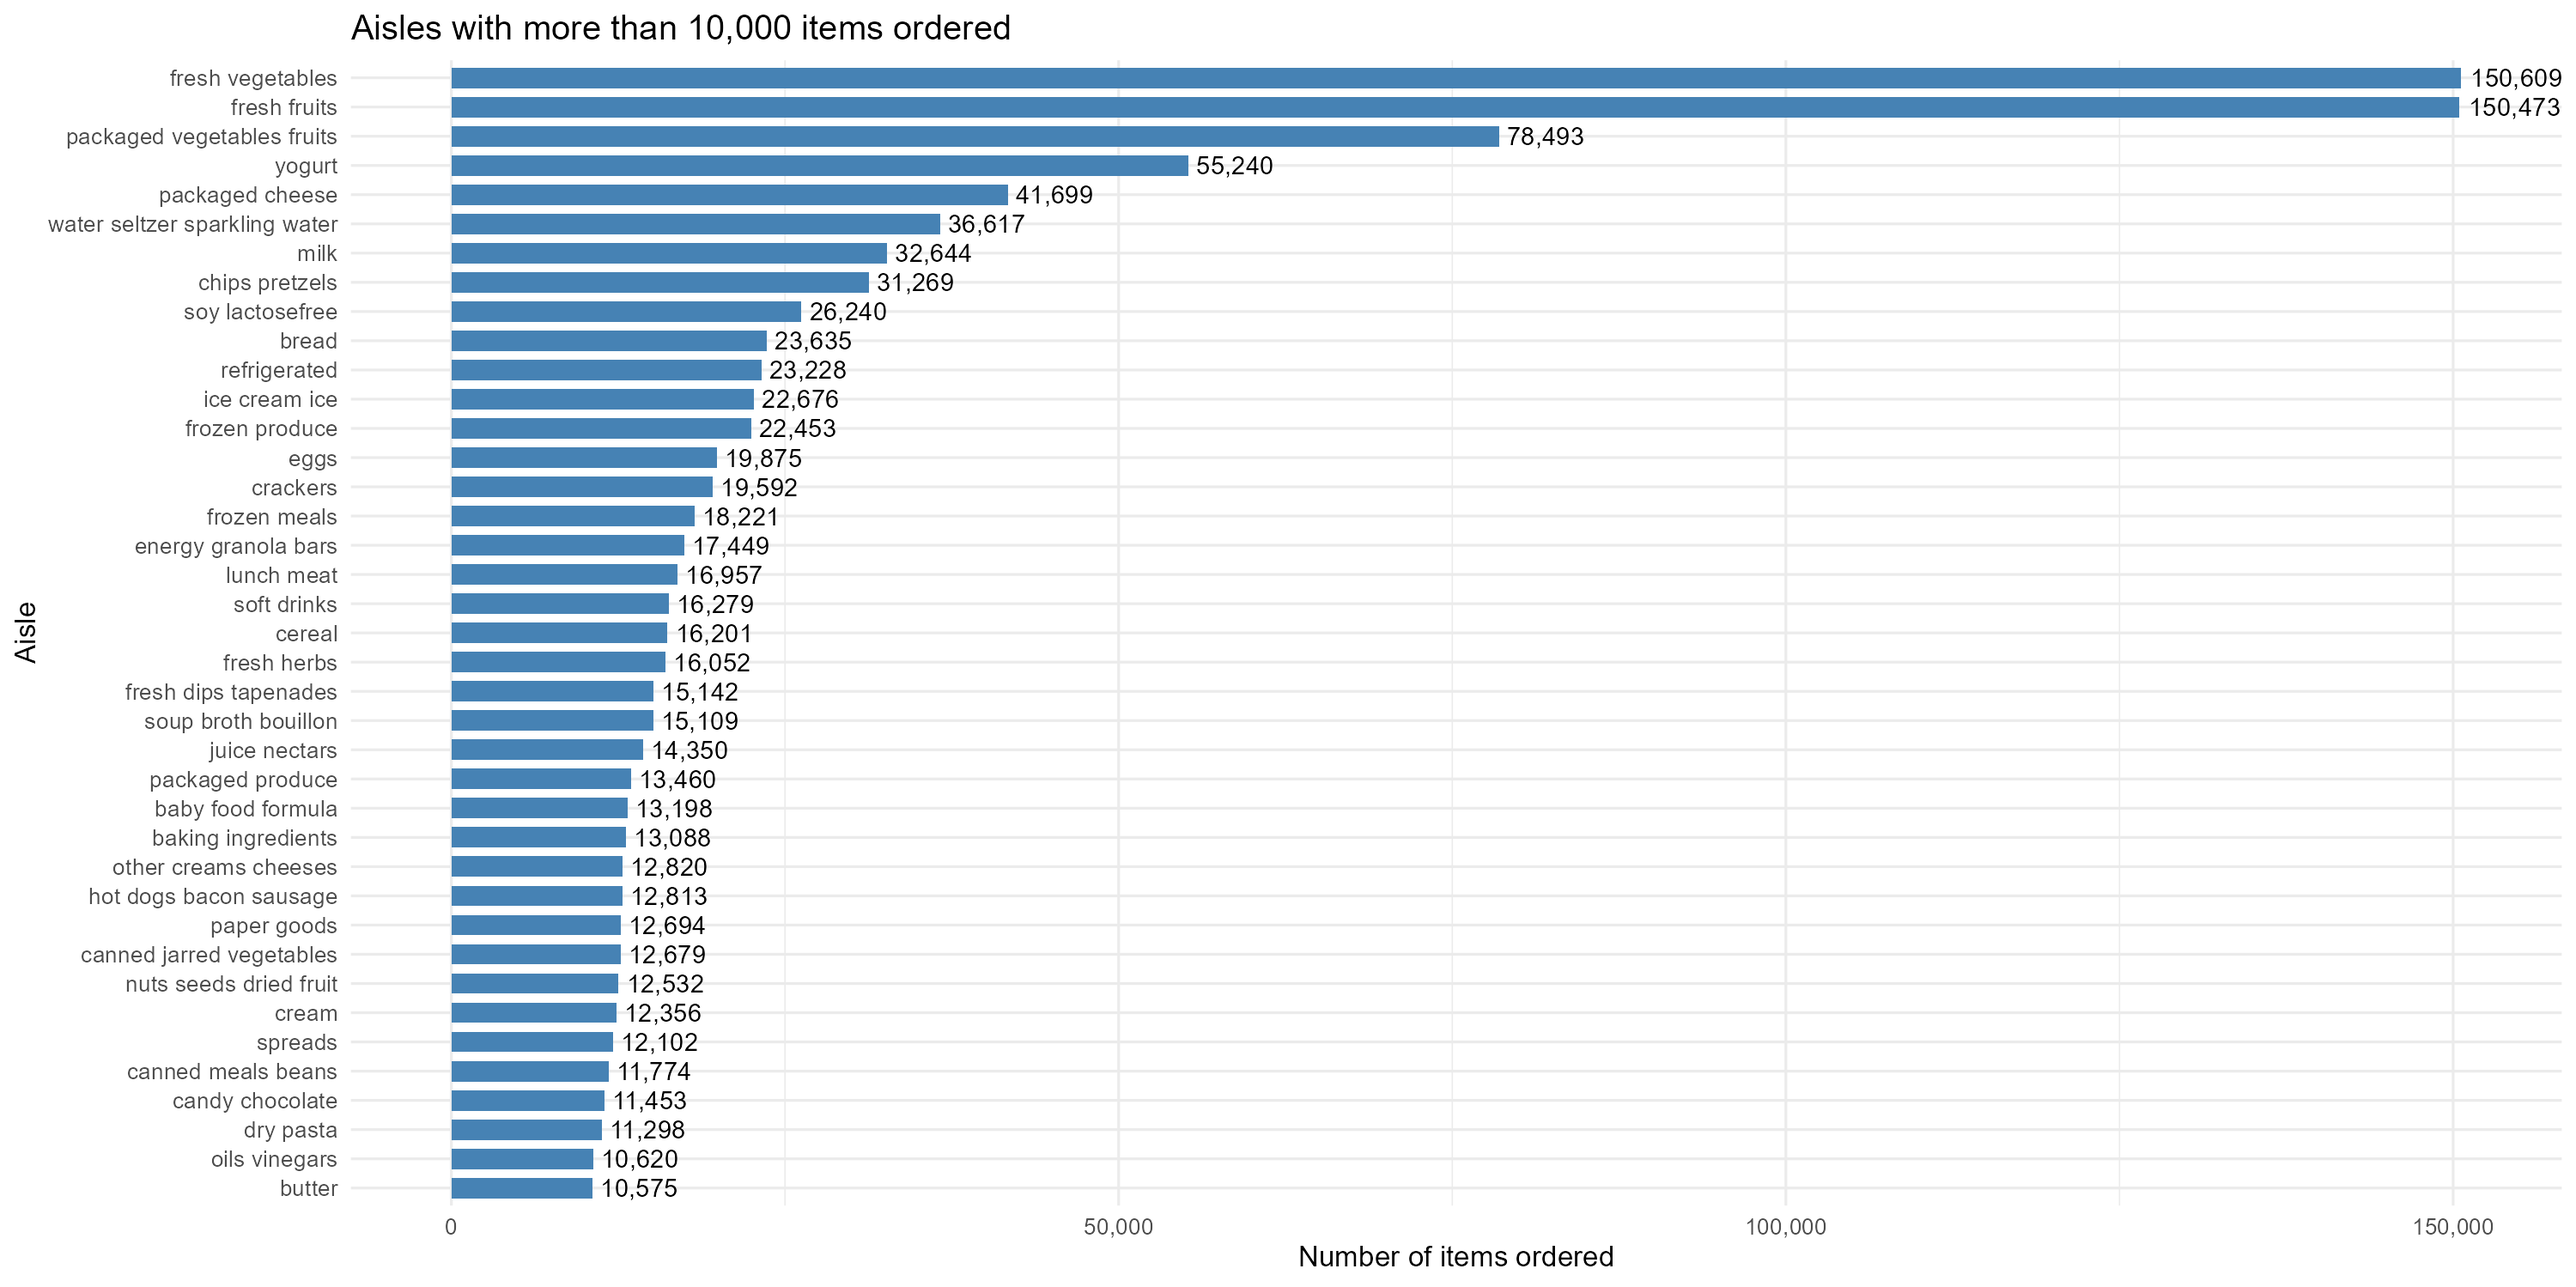
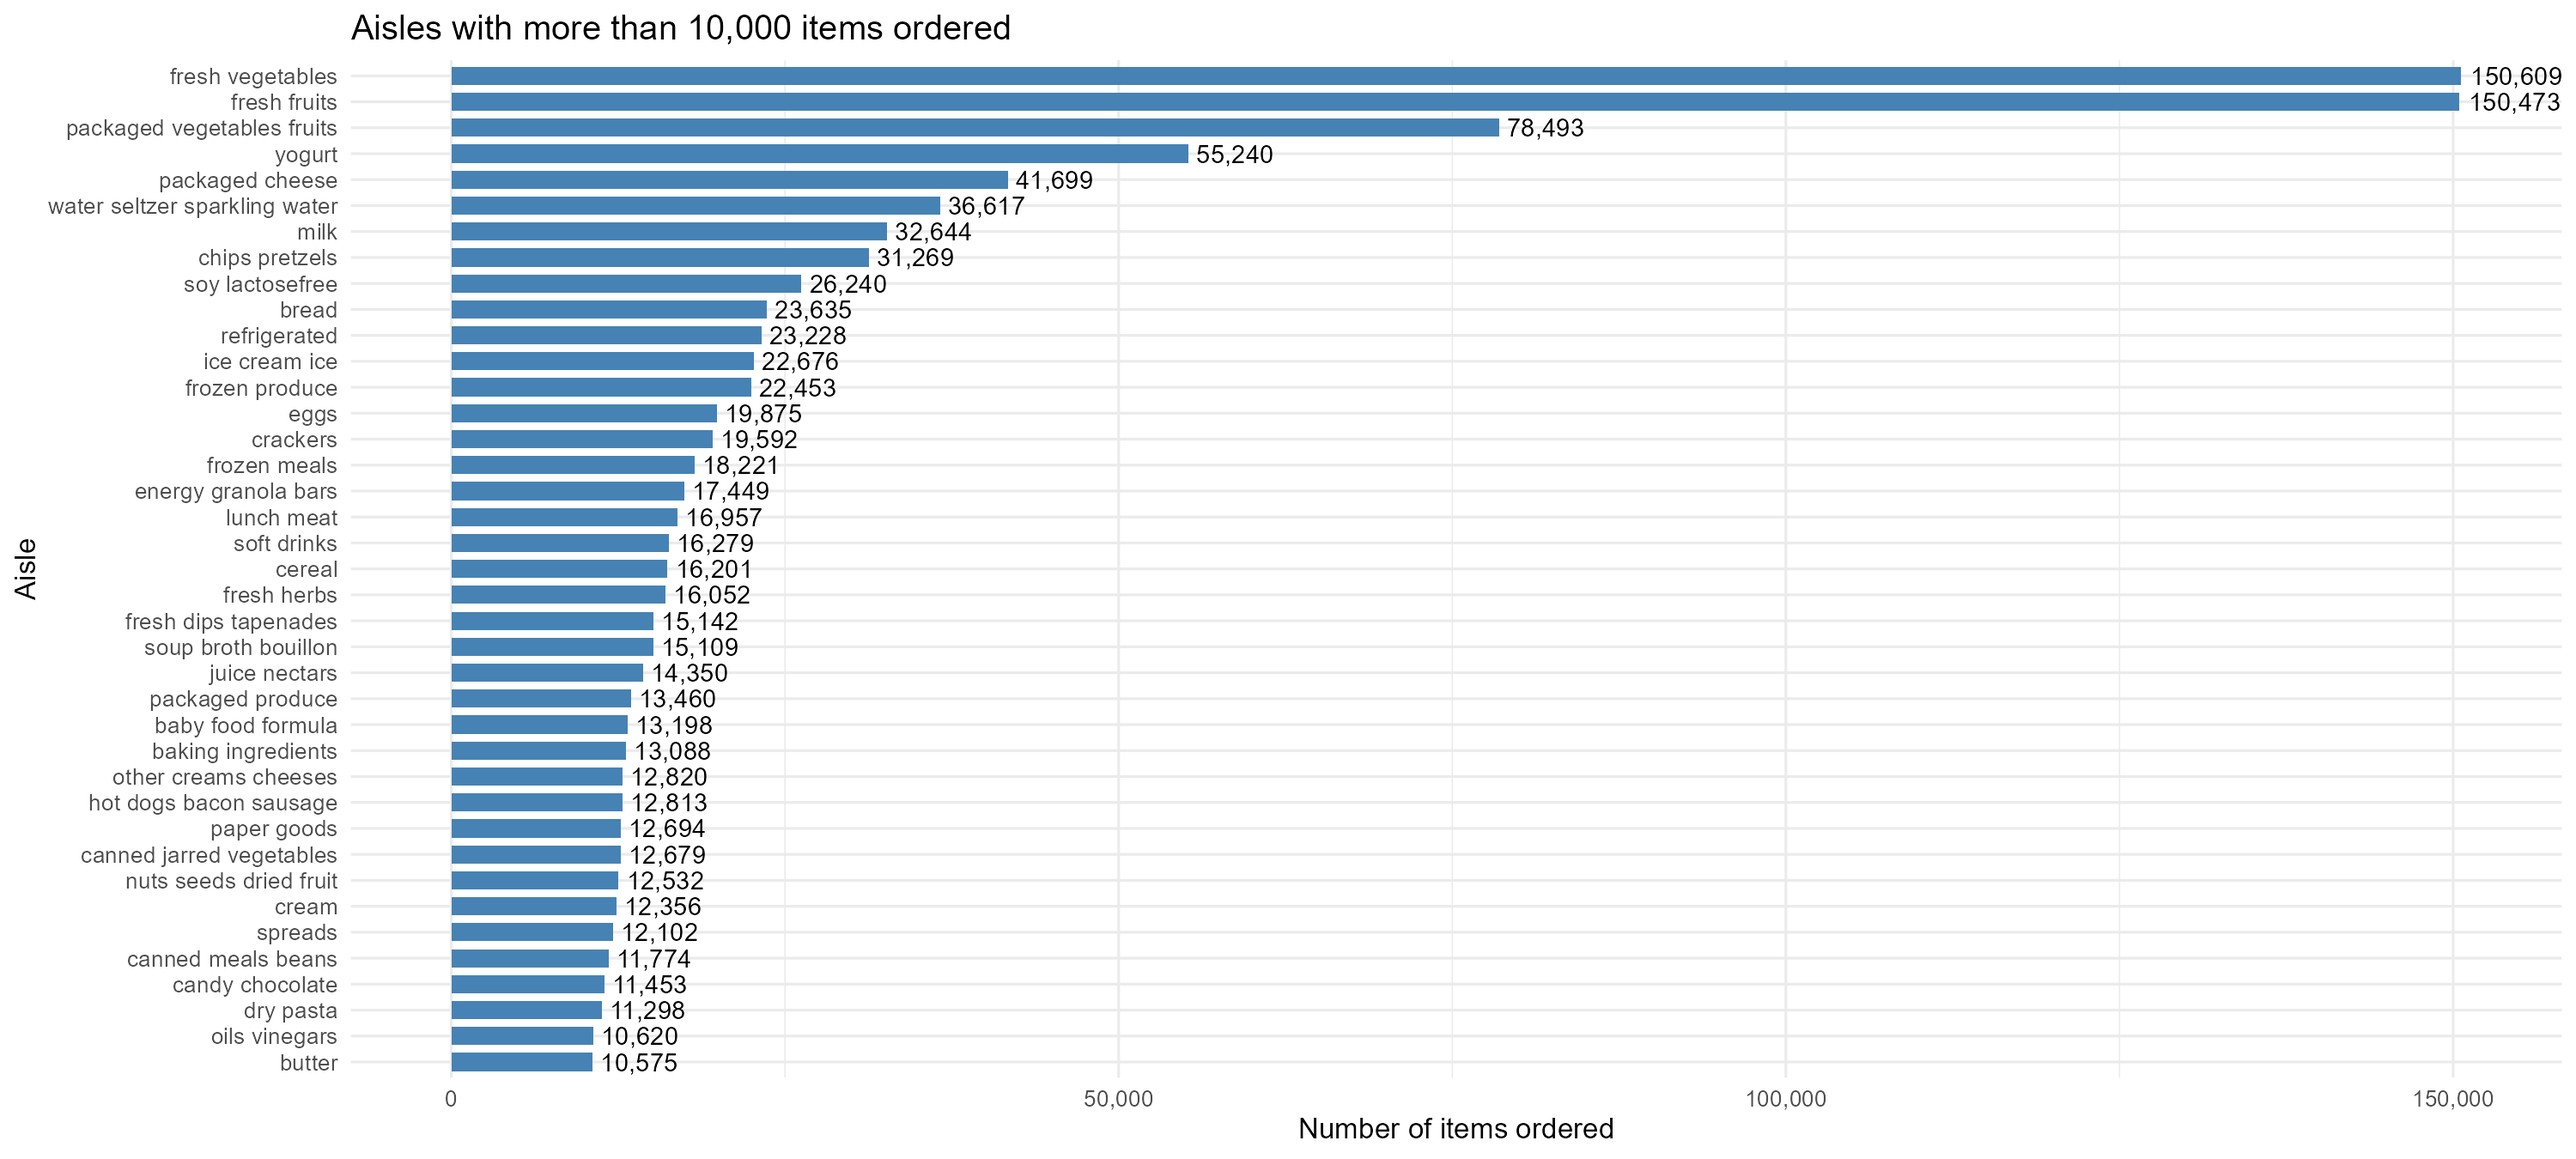
Modified and added some comments, and made the plot of last part Problem 3 more readable.

diff --git a/p8105_hw3_rl3616.md b/p8105_hw3_rl3616.md
@@ -1,7 +1,7 @@
 p8105_hw3_rl3616
 ================
 Ruipeng Li
-2025-10-10
+2025-10-11
 
 # Problem 1
 
@@ -419,3 +419,94 @@ nhanes_total <- nhanes_df |>
   distinct(seqn, .keep_all = TRUE) |> 
   select(-starts_with("min"))
 ```
+
+``` r
+ggplot(nhanes_total, aes(x = age, y = total_activity, color = sex)) +
+  geom_point(alpha = 0.5) +
+  geom_smooth(se = FALSE, method = "loess") +
+  facet_wrap(~ education, ncol = 3) +
+  labs(
+    title = "Total Daily Activity vs Age by Sex and Education",
+    x = "Age (years)",
+    y = "total_activity",
+    color = "Sex"
+  ) +
+  theme_minimal()
+```
+
+    ## `geom_smooth()` using formula = 'y ~ x'
+
+![](p8105_hw3_rl3616_files/figure-gfm/unnamed-chunk-16-1.png)<!-- -->
+
+The figure indicates that total daily activity declines with age across
+all education levels. Among participants with high school equivalent or
+higher education, females tend to have slightly greater activity levels
+than males.
+
+In contrast, within the less than high school group, males aged 40–80
+show higher activity levels than females.
+
+The wide variation in total activity across education levels suggests
+more diverse lifestyle and occupational patterns.
+
+Interestingly, younger adults (aged 20–30) with less than high school
+education exhibit the highest overall activity levels, according to the
+trend line.
+
+While an individual 36-year-old male participant shows the lowest total
+MIMS value in the dataset—possibly reflecting limited movement or
+device-recording differences.
+
+``` r
+accel_long <- nhanes_df |>
+  select(seqn, sex, education, starts_with("min")) |>
+  pivot_longer(
+    cols = starts_with("min"),
+    names_to = "minute",
+    values_to = "mims"
+  ) |>
+  mutate(
+    minute = as.numeric(str_remove(minute, "min")),
+    hour   = (minute - 1) %/% 60
+  ) |>
+  group_by(education, sex, hour) |>
+  summarise(mean_mims = mean(mims, na.rm = TRUE), .groups = "drop")
+
+ggplot(accel_long, aes(x = hour, y = mean_mims, color = sex)) +
+  geom_line(size = 1) +
+  facet_wrap(~ education, ncol = 3) +
+  labs(
+    title = "24-hour Activity Patterns by Education Level and Sex",
+    x = "Hour of Day",
+    y = "Mean MIMs Activity",
+    color = "Sex"
+  ) +
+  theme_minimal(base_size = 12)
+```
+
+    ## Warning: Using `size` aesthetic for lines was deprecated in ggplot2 3.4.0.
+    ## ℹ Please use `linewidth` instead.
+    ## This warning is displayed once every 8 hours.
+    ## Call `lifecycle::last_lifecycle_warnings()` to see where this warning was
+    ## generated.
+
+![](p8105_hw3_rl3616_files/figure-gfm/unnamed-chunk-17-1.png)<!-- -->
+Based on the plot, the mean MIMS activity across all education levels
+shows a clear daily rhythm — activity peaks between 7 AM and 8 PM,
+corresponding to typical daytime hours, and drops sharply during the
+night (around midnight to 5 AM).
+
+This pattern aligns well with regular human sleep–wake cycles.
+
+For participants with `high school or higher education`, `females`
+consistently show higher mean hourly activity during the daytime
+compared to males. In contrast, for those with `less than high school`
+education, `male` and `female` activity levels are almost identical
+throughout the day.
+
+Interestingly, participants with `less than high school` education
+display the highest daytime activity levels among all groups.
+
+This may suggest that individuals with lower educational attainment
+engage in more physically demanding occupations or routines, leading to
+higher accelerometer readings during working hours.
